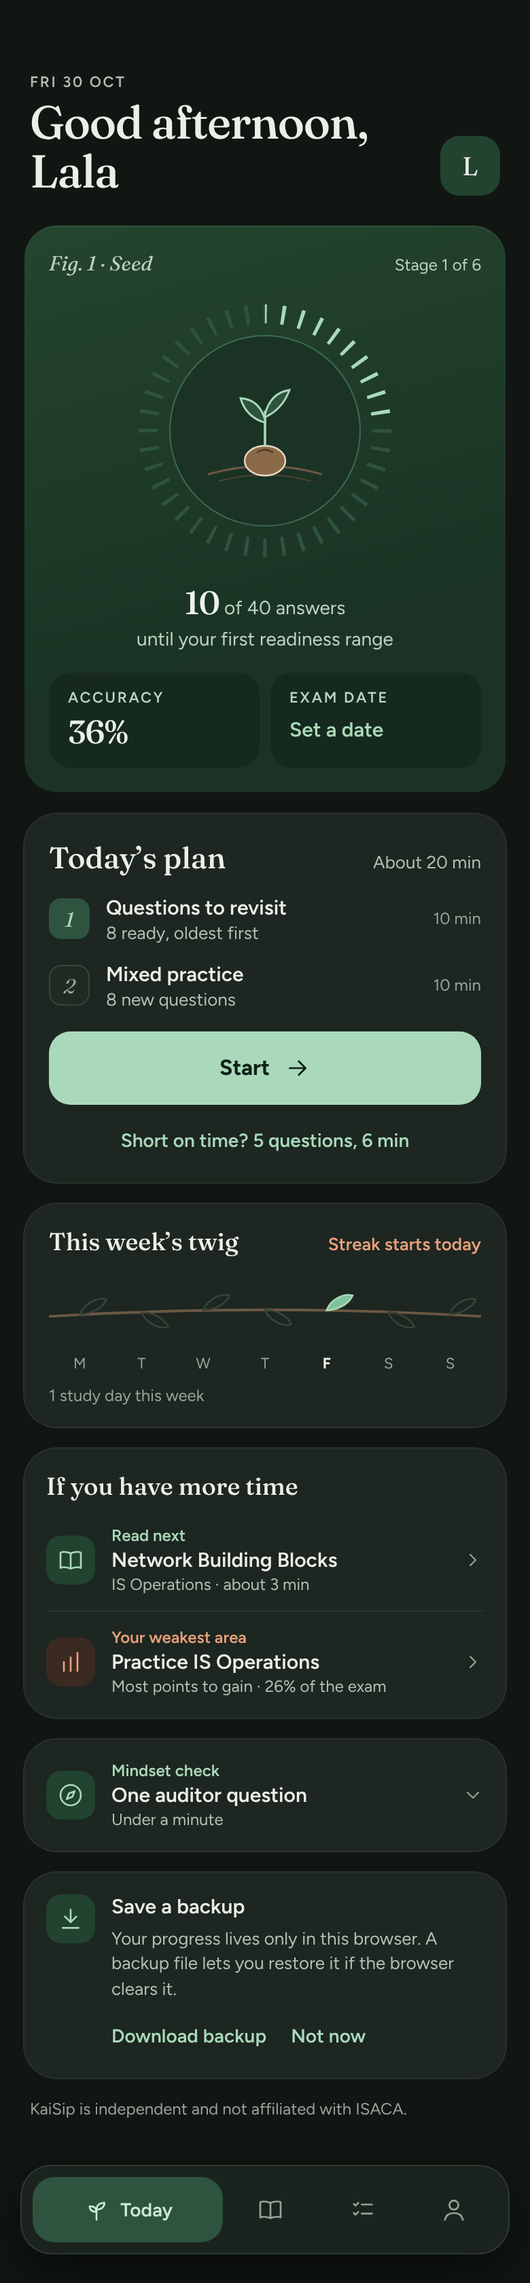
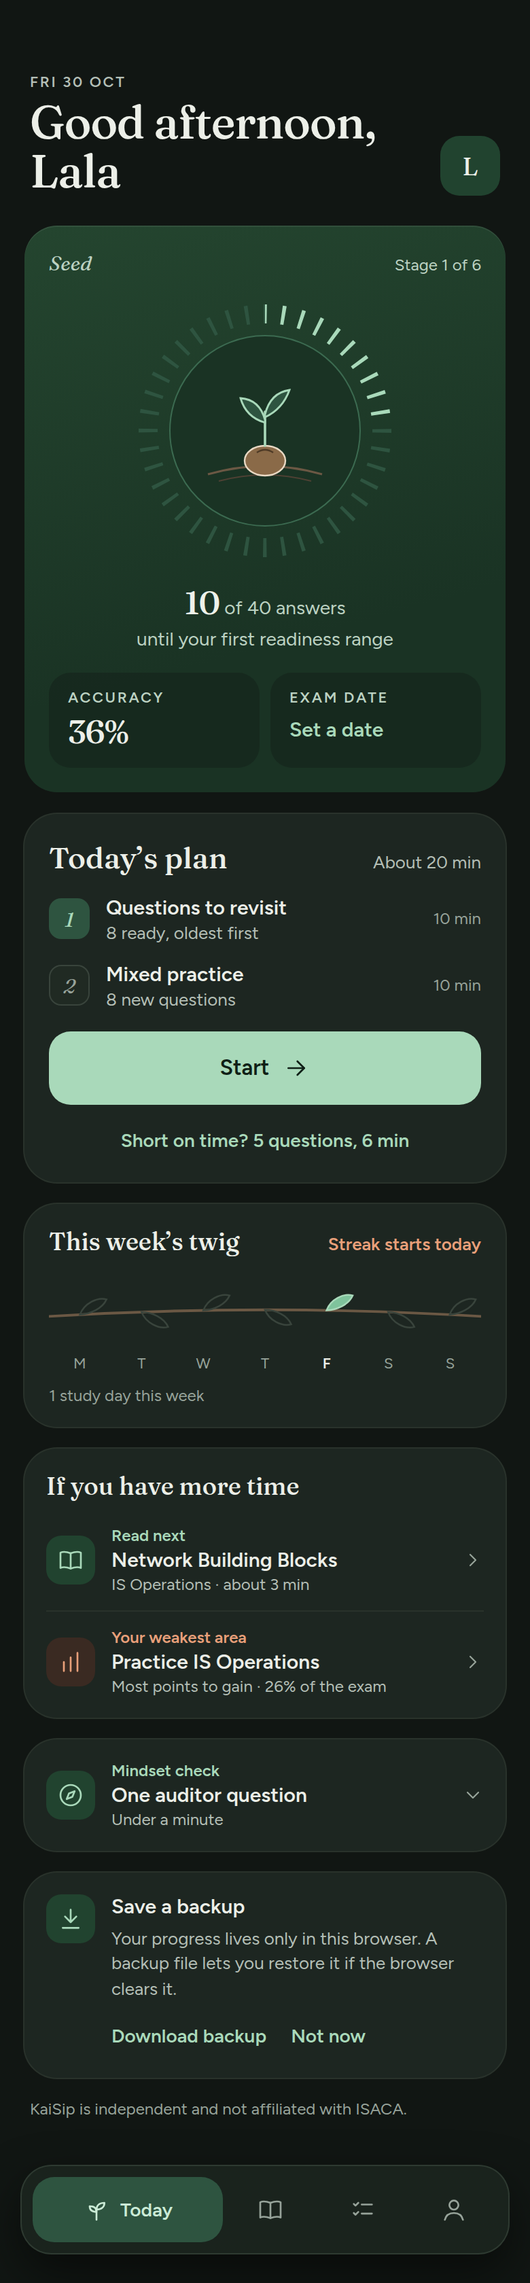
fix(grove): A review round 1
The phone readiness ring now takes its size from its own text size: still
132px at 100%, about 172px at 130% and capped by the card width. With
larger text the plant, the range and its caption stay inside the disc
instead of being clipped. The range stack's lift is a share of the ring
(22px of 132) so it stays in step. Checked at text scales 1, 1.15, 1.3
and 2, at 320, 375 and 390px, for new, 10 answer, range and day 20
learners.

The Grove kit no longer shows the old book labels, so a later build does
not bring them back: the reference HTML for Today, You, web Today and the
data kit drops the figure numbers, the running head labels and the plate
key ("Herbarium" reads "Badges"), and their PNG screens are re-rendered.
GROVE_HANDOFF.md and START_HERE.md say the same and point to decision 8.

Claude-Session: https://claude.ai/code/session_01FzAKMFRadCvy7zVWbQLHwZ

diff --git a/design-notes/grove/reference/04-phone-you.html b/design-notes/grove/reference/04-phone-you.html
@@ -25,7 +25,7 @@ a{color:#A9D9BA}a:hover{color:#CBEBD6}
   <div style="padding:50px 18px 120px;display:flex;flex-direction:column;gap:14px">
 
     <header style="display:flex;justify-content:space-between;align-items:center;padding:0 4px">
-      <p class="lbl" style="margin:0">Field record · You</p>
+      <p class="lbl" style="margin:0">Fri 30 Oct</p>
       <a href="#" aria-label="Settings" style="width:44px;height:44px;border-radius:14px;background:#1D2621;box-shadow:0 0 0 1px #29322B;display:flex;align-items:center;justify-content:center;color:#B4BFB6"><svg class="ic" viewBox="0 0 24 24" aria-hidden="true"><circle cx="12" cy="12" r="3"/><path d="M12 2v3M12 19v3M2 12h3M19 12h3M4.9 4.9l2.1 2.1M17 17l2.1 2.1M4.9 19.1L7 17M17 7l2.1-2.1"/></svg></a>
     </header>
 
@@ -65,7 +65,7 @@ a{color:#A9D9BA}a:hover{color:#CBEBD6}
 
     <section aria-label="Five areas, one scale" class="card" style="padding:16px 14px 14px;display:flex;flex-direction:column;gap:8px">
       <div style="display:flex;justify-content:space-between;align-items:baseline;padding:0 4px">
-        <p class="serif" style="margin:0;font-style:italic;font-size:15px;color:#BCD2C2">Fig. 5 · Five areas, one scale</p>
+        <p class="serif" style="margin:0;font-style:italic;font-size:15px;color:#BCD2C2">Five areas, one scale</p>
         <a href="#" style="font-size:13px;font-weight:600;text-decoration:none">Report</a>
       </div>
       <svg viewBox="0 0 330 236" width="100%" role="img" aria-label="All five domains are still seeds. Answers so far: IS Audit 2, IT Governance 1, IS Acquisition 1, IS Operations 6, Information Protection 1. A domain sprouts at 30 answers.">
@@ -121,9 +121,9 @@ a{color:#A9D9BA}a:hover{color:#CBEBD6}
       <p style="margin:0;padding:0 4px;font-size:12px;color:#B4BFB6;line-height:1.5"><span class="serif" style="font-style:italic;color:#ECEFE8">Key.</span> Each area is a seed until 30 answers, then it grows a stem on the same scale. Dashed: the 70 line. A clay tip means below it.</p>
     </section>
 
-    <section aria-label="Herbarium" class="card" style="padding:16px;display:flex;flex-direction:column;gap:12px">
+    <section aria-label="Badges" class="card" style="padding:16px;display:flex;flex-direction:column;gap:12px">
       <div style="display:flex;justify-content:space-between;align-items:baseline">
-        <h2 class="serif" style="margin:0;font-size:19px;font-weight:500">Herbarium</h2>
+        <h2 class="serif" style="margin:0;font-size:19px;font-weight:500">Badges</h2>
         <a href="#" style="font-size:13px;font-weight:600;text-decoration:none">All badges</a>
       </div>
       <div style="display:grid;grid-template-columns:repeat(4,minmax(0,1fr));gap:8px">

diff --git a/design-notes/grove/reference/06-data-kit.html b/design-notes/grove/reference/06-data-kit.html
@@ -28,7 +28,7 @@ body{margin:0;background:#111613}
   <div style="display:grid;grid-template-columns:minmax(0,1.55fr) minmax(0,1fr);gap:18px">
     <section class="card" aria-label="Domain stems, grown">
       <div style="display:flex;justify-content:space-between;align-items:center">
-        <p class="serif" style="margin:0;font-style:italic;font-size:16px;color:#BCD2C2">Fig. 5 · Five areas, one scale</p>
+        <p class="serif" style="margin:0;font-style:italic;font-size:16px;color:#BCD2C2">Five areas, one scale</p>
         <span class="ex">Example · 300 answers</span>
       </div>
       <svg viewBox="0 0 520 256" width="100%" role="img" aria-label="Example: Audit 74, Governance 68, Acquisition 55, Operations 81, Protection 72. Governance and Acquisition are below the 70 line.">
@@ -76,7 +76,7 @@ body{margin:0;background:#111613}
 
     <section class="card" aria-label="Readiness range" style="align-items:center">
       <div style="display:flex;justify-content:space-between;align-items:center;align-self:stretch">
-        <p class="serif" style="margin:0;font-style:italic;font-size:16px;color:#BCD2C2">Fig. 1 · Readiness</p>
+        <p class="serif" style="margin:0;font-style:italic;font-size:16px;color:#BCD2C2">Readiness</p>
         <span class="ex">Example · after 40</span>
       </div>
       <div style="position:relative;width:220px;height:220px">
@@ -103,7 +103,7 @@ body{margin:0;background:#111613}
   <div style="display:grid;grid-template-columns:minmax(0,1.2fr) minmax(0,1fr) minmax(0,.8fr);gap:18px">
     <section class="card" aria-label="Oak stages">
       <div style="display:flex;justify-content:space-between;align-items:center">
-        <p class="serif" style="margin:0;font-style:italic;font-size:16px;color:#BCD2C2">Plate II · Six stages of your oak</p>
+        <p class="serif" style="margin:0;font-style:italic;font-size:16px;color:#BCD2C2">Six stages of your oak</p>
       </div>
       <div style="display:grid;grid-template-columns:repeat(6,minmax(0,1fr));gap:6px;align-items:end">
         <div style="display:flex;flex-direction:column;align-items:center;gap:6px"><span style="width:100%;aspect-ratio:1;border-radius:14px;background:#2E5440;box-shadow:inset 0 0 0 1.5px #A9D9BA;display:flex;align-items:center;justify-content:center"><svg viewBox="0 0 44 52" width="38" height="44" aria-hidden="true"><path d="M8 46 Q22 42 36 46" fill="none" stroke="#6B5844" stroke-width="1.5"/><ellipse cx="22" cy="42" rx="6" ry="4.5" fill="#8A6A48" stroke="#E9D9C4"/><path d="M22 38 V33 M22 35 Q18 34 17 31" fill="none" stroke="#A9D9BA" stroke-width="1.3" stroke-linecap="round"/></svg></span><span style="font-size:11px;font-weight:700">Seed</span></div>

diff --git a/design-notes/grove/reference/05-web-today.html b/design-notes/grove/reference/05-web-today.html
@@ -47,7 +47,6 @@ a{color:#A9D9BA}a:hover{color:#CBEBD6}
 
   <div style="flex:999 1 560px;min-width:0;box-sizing:border-box;padding:28px max(16px,3vw) 48px;display:flex;flex-direction:column;gap:20px">
     <div style="display:flex;justify-content:space-between;padding-bottom:12px;box-shadow:0 1px 0 #1F2822">
-      <p class="lbl" style="margin:0">Field guide · Today</p>
       <p class="lbl" style="margin:0">Fri 30 Oct</p>
     </div>
 
@@ -73,7 +72,7 @@ a{color:#A9D9BA}a:hover{color:#CBEBD6}
               <path d="M100 94 Q86 90 82 76 Q96 77 100 92Z" fill="#2E5440" stroke="#A9D9BA" stroke-width="1.4"/>
               <path d="M100 90 Q113 84 118 70 Q104 72 100 88Z" fill="#2E5440" stroke="#A9D9BA" stroke-width="1.4"/>
             </svg>
-            <p class="serif" style="margin:0;font-style:italic;font-size:14px;color:#BCD2C2">Fig. 1 · Seed, stage 1 of 6</p>
+            <p class="serif" style="margin:0;font-style:italic;font-size:14px;color:#BCD2C2">Seed · stage 1 of 6</p>
           </div>
           <div style="flex:1 1 260px;display:flex;flex-direction:column;gap:12px">
             <div style="display:flex;justify-content:space-between;align-items:baseline"><span class="lbl" style="color:#BCD2C2">Today’s plan</span><span style="font-size:13px;color:#BCD2C2">About 22 min</span></div>
@@ -84,7 +83,7 @@ a{color:#A9D9BA}a:hover{color:#CBEBD6}
               <span style="font-size:13px;color:#BCD2C2">Stop any time; your place is saved.</span>
             </div>
           </div>
-          <p class="serif" style="margin:0;flex-basis:100%;font-style:italic;font-size:14px;color:#BCD2C2"><span class="lbl" style="font-style:normal;font-size:10px;color:#BCD2C2;margin-right:8px">Plate</span>Your progress grows from what you practise here.</p>
+          <p class="serif" style="margin:0;flex-basis:100%;font-style:italic;font-size:14px;color:#BCD2C2">Your progress grows from what you practise here.</p>
         </section>
 
         <section aria-label="If you have more time" class="card" style="display:flex;flex-direction:column;padding-bottom:4px">

diff --git a/index.html b/index.html
@@ -7416,14 +7416,16 @@ html { scroll-padding-bottom: calc(104px + var(--consent-h, 0px)); }
   .td-hero { gap: 12px; }
   .td-intro { margin-top: 4px; font: 400 14px/20px var(--f-sans); }
   .td-fig { gap: 8px; padding: 12px 16px 14px; }
-  .td-ring { width: 132px; height: 132px; }
+  /* Sized from its own font size so it grows when text grows (132px at 100%,
+     about 172px at 130%), capped by the card's width. */
+  .td-ring { font-size: 16px; width: min(8.25em, 100%); height: auto; aspect-ratio: 1; }
   .td-ring-art .td-seed { width: 64px; }
   .td-ring-art .plnt-svg { width: 70px; max-height: 64px; }
   /* The range state: the plant, "58 to 66" and "estimated range" fit the
      92px disc, so the stack is smaller and sits above centre: the plant's
      narrow leaves go where the disc narrows, and the wide words stay where
      it is widest, clear of its edge. */
-  .td-ring-range .td-ring-in { gap: 0; padding-bottom: 22px; }
+  .td-ring-range .td-ring-in { gap: 0; padding-bottom: 16.667%; } /* 22px of the 132px ring, and in step when it grows */
   .td-ring-range .td-ring-art .td-seed { width: 32px; }
   .td-ring-range .td-ring-art .plnt-svg { width: 36px; max-height: 28px; }
   .td-ring-n { margin-top: 0; font-size: 22px; line-height: .95; }

diff --git a/design-notes/grove/reference/01-phone-today.html b/design-notes/grove/reference/01-phone-today.html
@@ -31,7 +31,7 @@ a{color:#A9D9BA}a:hover{color:#CBEBD6}
 
     <section aria-label="Your oak" style="display:flex;flex-direction:column;gap:14px;padding:18px;border-radius:24px;background:linear-gradient(165deg,#24452F 0%,#1A3324 70%);box-shadow:inset 0 1px 0 rgba(255,255,255,.07)">
       <div style="display:flex;justify-content:space-between;align-items:baseline">
-        <p class="serif" style="margin:0;font-style:italic;font-size:15px;color:#BCD2C2">Fig. 1 · Seed</p>
+        <p class="serif" style="margin:0;font-style:italic;font-size:15px;color:#BCD2C2">Seed</p>
         <p style="margin:0;font-size:12px;color:#BCD2C2">Stage 1 of 6</p>
       </div>
       <div style="display:flex;flex-direction:column;align-items:center;gap:10px">

diff --git a/design-notes/grove/GROVE_HANDOFF.md b/design-notes/grove/GROVE_HANDOFF.md
@@ -2,6 +2,8 @@
 
 Read this whole file before you change anything. It is the single source of truth for this uplift.
 
+> **No book labels on screen (31 Oct 2026).** Never show or say "Field guide", "Field record", "Plate", "Plates", "Herbarium" or "Fig. N". Captions are plain words. See `DECISIONS.md` 8 and `docs/mobile/DESIGN_SYSTEM.md` §21.9. The kit below follows this.
+
 ## 1. What this is
 
 A visual uplift of the KaiSip app (kaisip.com and the Android app, which share one codebase). The look is called **Grove**: the existing plant theme, with cleaner rounded cards, a floating tab bar, and every progress number drawn as a plant.
@@ -77,7 +79,7 @@ The dark values below are kaisip.com's current dark theme, so most already exist
 | `--soil` | `#6B5844` | `#A89B83` | Ground lines, twig branch, chart baseline |
 | `--leaf-empty` | `#39443C` | `#CDC9BC` | Empty leaf outlines, locked stages |
 
-Type: keep **Fraunces** (headings, big numbers, italic plate captions) and **Figtree** (everything else). Big numbers use `font-variant-numeric: tabular-nums`.
+Type: keep **Fraunces** (headings, big numbers, italic captions) and **Figtree** (everything else). Big numbers use `font-variant-numeric: tabular-nums`.
 
 ## 5. Shared rules for phone and web
 
@@ -113,7 +115,7 @@ See `01-phone-today.png` and the right card in `06-data-kit.png`.
 - **After the first estimate:** 50 ticks, each worth 2 points. Ticks up to the low end of the range are `--btn`. Ticks inside the range are `--tip`. A clay marker sits at the 80 study bar (288 degrees). Centre text: "58 to 66", then "estimated range". Never show a single number.
 - Use the readiness values the app already calculates. Simplest build: draw each tick as a `<line>` rotated `i * 360 / N` degrees in a loop.
 
-### 6.5 Domain stems chart, "Fig. 5 · Five areas, one scale" (You)
+### 6.5 Domain stems chart, "Five areas, one scale" (You)
 This replaces the current chart and keeps its idea. See `04-phone-you.png` (seed state) and `06-data-kit.png` (grown state).
 - Y axis labels 0, 50, 70, 100. Dashed 70 line labelled "70 line" in italic Fraunces. Baseline in `--soil`.
 - **Seed state** (fewer than 30 answers in that domain): a seed at the baseline inside a germination ring (radius 13, stroke 2.5). The ring fills `answered / 30` in `--btn`. At 6 or more answers, draw a tiny shoot. Under the label: "6 of 30".
@@ -132,7 +134,7 @@ This replaces the current chart and keeps its idea. See `04-phone-you.png` (seed
 - Six square tiles: Seed, Sprout, Sapling, Young oak, Oak, Old oak. The current stage tile is `--forest-track` with a `--btn` edge. Locked stages are quiet outlines, never hidden.
 - If the app already has its own stage names, keep those.
 
-### 6.8 Herbarium tiles (You)
+### 6.8 Badge tiles (You)
 - Four square tiles in a row. Earned badge: a light paper tile with the pressed leaf and a tape strip at the top. Not earned: a dashed `--leaf-empty` outline with a faint silhouette.
 - Under the tiles: "1 pressed · Fresh Start, 26 Oct" from real badge data.
 
@@ -145,7 +147,7 @@ The screenshots show the layout for each screen. Section 10 lists every item tha
 
 ### Today (`01`, web `05`)
 1. Date label, "Good afternoon, {name}", avatar tile, and "1 study day this week".
-2. Hero card: "Fig. 1 · {stage}", "Stage 1 of 6", readiness ring, ring caption, then two inset tiles: Accuracy and Exam date ("Set a date" when none is saved).
+2. Hero card: the stage name ("Seed"), "Stage 1 of 6", readiness ring, ring caption, then two inset tiles: Accuracy and Exam date ("Set a date" when none is saved).
 3. Today's plan card: numbered step squares, title and detail, minutes, full-width Start, "Short on time? 5 questions, 6 min", and "Stop any time; your place is saved." When there is an unanswered question, this card switches to the existing "Where you left off · Your open question · Continue" state, in the same card style.
 4. This week's twig card.
 5. "If you have more time" card: Read next, and Your weakest area.
@@ -156,7 +158,7 @@ The screenshots show the layout for each screen. Section 10 lists every item tha
 
 ### Learn (`02`)
 1. Title and one line of intro.
-2. Up next hero card: domain dot and name, lesson title, dandelion plate tile, time line, Start lesson.
+2. Up next hero card: domain dot and name, lesson title, dandelion tile, time line, Start lesson.
 3. Search field.
 4. Tiles: Study notes, Glossary, Principles, The CISA exam, then Final review week as a full-width tile.
 5. Lessons card: one row per domain with its `--domN` dot and "0 of 13". The recommended domain gets a small "Next" chip. "Prefer a guided path?" button at the bottom.
@@ -175,13 +177,13 @@ The screenshots show the layout for each screen. Section 10 lists every item tha
 9. Mock exams card: Mini mock (50) and Full mock (150) tiles, and the ISACA scaled score note.
 
 ### You (`04`)
-1. "Field record · You" label and the settings button.
+1. The date label and the settings button.
 2. Profile row: name, studying since, daily minutes, starting level.
 3. Your plant card: plant name, stage, growth. Keep the existing pick-a-plant and naming flow when nothing is planted yet.
 4. Progress tiles, 2 by 2: Answered, Correct, Accuracy, Streak (with study days this week). Note under them: "Each question counts once, at your latest try."
 5. Estimated readiness summary row with a small ring and a Report link.
 6. Domain stems chart card.
-7. Herbarium card.
+7. Badges card.
 8. Study tools card: Questions to revisit, Mistake journal, Saved questions, Share progress.
 9. Your progress card: Your progress, Weak spots, Session summary.
 10. Mock exams card, including the "No mocks yet" empty state.
@@ -198,7 +200,7 @@ Do these in order. Commit after each one.
 
 1. **Tokens, shapes and navigation.** Add the new tokens in both themes. Apply card and tile radii. Build the floating tab bar and restyle the sidebar. Remove the floating gear and add the settings button to You.
 2. **Today.** Hero card with the readiness ring (both states), plan card, week twig.
-3. **You.** Stat tiles, domain stems chart (seed and stem states), Herbarium tiles, study tools card.
+3. **You.** Stat tiles, domain stems chart (seed and stem states), badge tiles, study tools card.
 4. **Practice and Learn.** Section tabs, Picked for you hero, Focus next, By domain, Review and saved, Drills, Mock exams. Learn up next hero, tiles (with Glossary), lessons card, then restyle the inside pages.
 5. **Web layout.** Two-column Today, same components, responsive breakpoints.
 6. **QA.** Check at 375, 390, 768 and 1280 px, in dark and light. Contrast at least 4.5:1 for text. 44 px targets. No horizontal scroll. Quiz, scoring and progress still behave exactly as before. Then do the version bump and What's New entry the repo's `CLAUDE.md` requires, push the branch and open the PR.
@@ -223,10 +225,10 @@ This list comes from kaisip.com and the current phone app on 30 Oct 2026. Treat 
 
 **Navigation:** Today; Learn (Study notes, Glossary, Principles, About the CISA exam, Final review week); Practice (Practice, Drills, Mock exam, Saved); You.
 
-**Today:** greeting with name; set exam date; study days this week; the plant figure and stage; today's plan with steps and Start; short on time option; "Stop any time; your place is saved."; the "Where you left off · Your open question · Continue" state; the PLATE caption "Your progress grows from what you practise here."; If you have more time (Read next, Your weakest area); Mindset check; Save a backup (Download backup, Not now); estimated readiness with the five domains, "How this is worked out" and "See your progress"; today's principle; the ISACA independence line.
+**Today:** greeting with name; set exam date; study days this week; the plant figure and stage; today's plan with steps and Start; short on time option; "Stop any time; your place is saved."; the "Where you left off · Your open question · Continue" state; the caption "Your progress grows from what you practise here."; If you have more time (Read next, Your weakest area); Mindset check; Save a backup (Download backup, Not now); estimated readiness with the five domains, "How this is worked out" and "See your progress"; today's principle; the ISACA independence line.
 
 **Learn:** up next lesson; search the notes; Study notes (domain tabs D1 to D5, domain overview, "Think of it this way", topics by part, read progress, filters All / To review / Read, Expand all, key terms, exam strategy); Glossary; Principles; About the CISA exam; Final review week; lessons by domain with counts; guided path; the footer note.
 
 **Practice:** rotating Mindset tip; picked for you set with Change and Timed; timer and seconds per question notes; Questions to revisit; Weak spots; By domain with exam weight, seen counts and status; All missed questions; Weak spots drill; All saved questions; Question bank; Build a set; Drills (Snare Spotter, Signpost, Call It First, unlock note); Mock exams (Mini, Full, scaled score note).
 
-**You:** profile (name, since, minutes, starting level, Add your name); Your plant (pick, name, stages, never wilts); Answered, Correct, Accuracy, Study days this week, Streak; estimated readiness and full report; domain chart and key; Herbarium badges; Questions to revisit; Mistake journal; Saved questions; Share progress; Your progress; Weak spots; Session summary; Mock exams and its empty state; Settings (Your name, Exam date, Dark mode, Exam-day rehearsal); Your data (back up, restore, start fresh); Help and about (What's New, FAQ and help, How KaiSip works, The welcome screen again, Send feedback, Support KaiSip, About KaiSip); ISACA trademark footer.
+**You:** profile (name, since, minutes, starting level, Add your name); Your plant (pick, name, stages, never wilts); Answered, Correct, Accuracy, Study days this week, Streak; estimated readiness and full report; domain chart and key; badges; Questions to revisit; Mistake journal; Saved questions; Share progress; Your progress; Weak spots; Session summary; Mock exams and its empty state; Settings (Your name, Exam date, Dark mode, Exam-day rehearsal); Your data (back up, restore, start fresh); Help and about (What's New, FAQ and help, How KaiSip works, The welcome screen again, Send feedback, Support KaiSip, About KaiSip); ISACA trademark footer.

diff --git a/design-notes/grove/DECISIONS.md b/design-notes/grove/DECISIONS.md
@@ -50,7 +50,7 @@ Why: on real phone browsers Start was under the bar in every state; an anxious l
 
 ## 7. Ring first on phones (owner, 31 Oct 2026; replaces plan first)
 
-Below 768px Today goes back to the kit's order (`screens/01-phone-today.png`): the hero figure first (the stage line, the readiness ring with the plant, its caption, the Accuracy and Exam date tiles), then Today's plan with Start, then the plant line, then the twig, then the rest. The order is the page's own (the markup), never CSS `order`, so keyboard focus and screen readers follow what is seen. The phone ring is 132px (was 150px; the owner asked for a smaller ring) and the figure is tighter, so Start sits as high as it can.
+Below 768px Today goes back to the kit's order (`screens/01-phone-today.png`): the hero figure first (the stage line, the readiness ring with the plant, its caption, the Accuracy and Exam date tiles), then Today's plan with Start, then the plant line, then the twig, then the rest. The order is the page's own (the markup), never CSS `order`, so keyboard focus and screen readers follow what is seen. The phone ring is 132px at 100% text (was 150px; the owner asked for a smaller ring) and the figure is tighter, so Start sits as high as it can. The ring is sized from its own text size, so with larger text it grows (about 172px at 130%, capped by the card's width) and nothing inside it is clipped; checked at text scales 1, 1.15, 1.3 and 2 at 320, 375 and 390px.
 
 On short browser screens (390 by 664, 375 by 635) a learner may scroll a little to reach Start; that is accepted. Not accepted: clipping the plant, the range or its caption, or text smaller than the type scale. From 768px nothing changes (the figure beside or above the plan in one forest card). Start's position is still measured as in decision 6 and reported at each handoff.
 
@@ -65,6 +65,8 @@ The website no longer shows or says "Field guide", "Field record", "Plate", "Pla
 - Your progress: "Five areas, one scale"; "Built from your answers in this app."; the badges sheet is headed "Badges" (was "Herbarium") and its empty mount says "Nothing here yet".
 - Practice: "Picked for you", "Where you left off", "A place to start"; the domain note is the sentence alone; "Three moves for this question".
 - Results and mocks: "Your domains after this set", "IS Operations, new growth", "Your five areas after this mock", "Two mocks, one pace".
+
+The Grove kit (`reference/*.html`, `screens/01`, `04`, `05`, `06`, `GROVE_HANDOFF.md` and `START_HERE.md`) was updated the same day so a later build does not bring the labels back.
 
 "Field Guide" stays the team's name for the look, never words on screen. Code names such as `fgPlate` stay. The phone app follows in its own round (the decision asks both apps to ship together; the version bump and What's New line wait for the end of the uplift).
 

diff --git a/docs/mobile/DESIGN_SYSTEM.md b/docs/mobile/DESIGN_SYSTEM.md
@@ -2087,7 +2087,7 @@ Today, You, Results and the Herbarium spoke Field Guide; Learn, Practice, lesson
 
 **How it is measured.** In the browser's visible area with its toolbars showing, not the full CSS viewport: the main sizes are **390 by 664** and **375 by 635** (an iPhone in Safari with both bars), with 412 by 780 (Android Chrome) and 320 by 568 as extra checks. 390 by 844 and 375 by 812 (the full CSS viewport) are secondary. Load the page, do not scroll, and compare Start's `getBoundingClientRect().bottom` with the tab bar's top. The native app (no browser toolbars) has the same hero-first order.
 
-**What it means for Today (web, below 768px).** The hero figure comes first in the page's own order (the stage line "Seed" with "Stage 1 of 6", the ring with the plant, the range, "A study estimate, not a prediction." or the answers caption, then the Accuracy and Exam date tiles), then Today's plan with Start, then the plant line, then the twig, then the rest. Order is set in the markup, never with CSS `order`, so keyboard focus and screen readers follow what is seen (WCAG 1.3.2, 2.4.3). From 768px the same markup is one forest card (grid areas: the figure beside the plan, or above it in a narrow column). The phone ring is 132px (150px before; 190px from 768px); in the range state the plant, "58 to 66" and "estimated range" sit above the disc's centre so the wide words stay clear of its edge. The ring's tick light-up waits until the ring is on screen and plays once (none with Reduce Motion).
+**What it means for Today (web, below 768px).** The hero figure comes first in the page's own order (the stage line "Seed" with "Stage 1 of 6", the ring with the plant, the range, "A study estimate, not a prediction." or the answers caption, then the Accuracy and Exam date tiles), then Today's plan with Start, then the plant line, then the twig, then the rest. Order is set in the markup, never with CSS `order`, so keyboard focus and screen readers follow what is seen (WCAG 1.3.2, 2.4.3). From 768px the same markup is one forest card (grid areas: the figure beside the plan, or above it in a narrow column). The phone ring is 132px at 100% text (150px before; 190px from 768px) and is sized from its own text size, so it grows with larger text (about 172px at 130%, up to the card's width) and the plant, the range and its caption are never clipped; in the range state the plant, "58 to 66" and "estimated range" sit above the disc's centre so the wide words stay clear of its edge. The ring's tick light-up waits until the ring is on screen and plays once (none with Reduce Motion).
 
 **The title.** Hero size, balanced, at most two lines on a phone: a name longer than 12 characters greets with its first word there (the full name shows from 768px and on You); a single word longer than 15 characters steps the title down to the value size.
 

diff --git a/design-notes/grove/START_HERE.md b/design-notes/grove/START_HERE.md
@@ -4,6 +4,8 @@ Paste this into Claude Code from the root of the KaiSip repo, after copying this
 
 ---
 
+> **No book labels on screen (31 Oct 2026).** Never show or say "Field guide", "Field record", "Plate", "Plates", "Herbarium" or "Fig. N". Captions are plain words. See `DECISIONS.md` 8 and `docs/mobile/DESIGN_SYSTEM.md` §21.9. The kit follows this.
+
 We are giving KaiSip a visual uplift called Grove. kaisip.com and the Android app share this codebase, so one change updates both.
 
 1. Read `design-notes/grove/GROVE_HANDOFF.md` from top to bottom. It is the source of truth.
